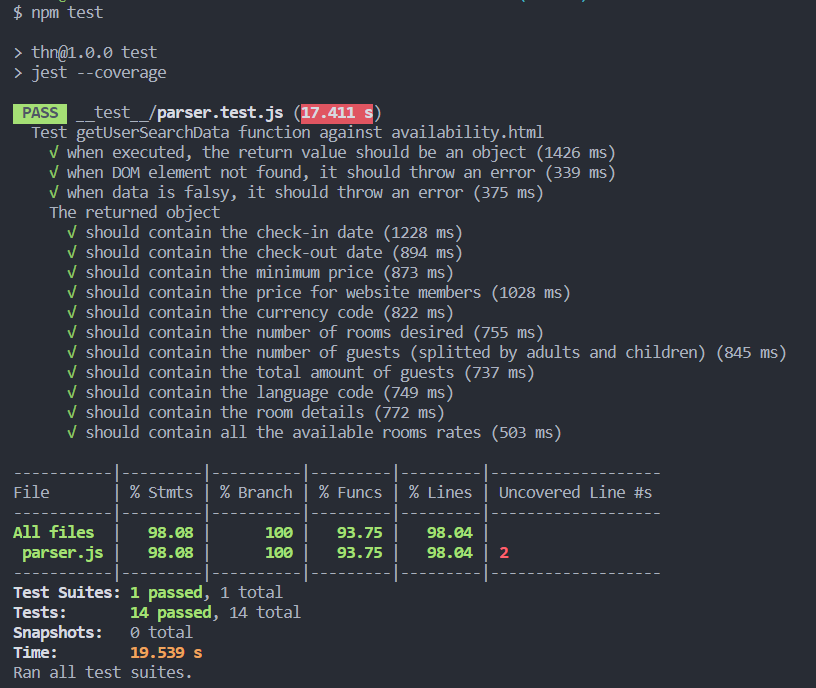
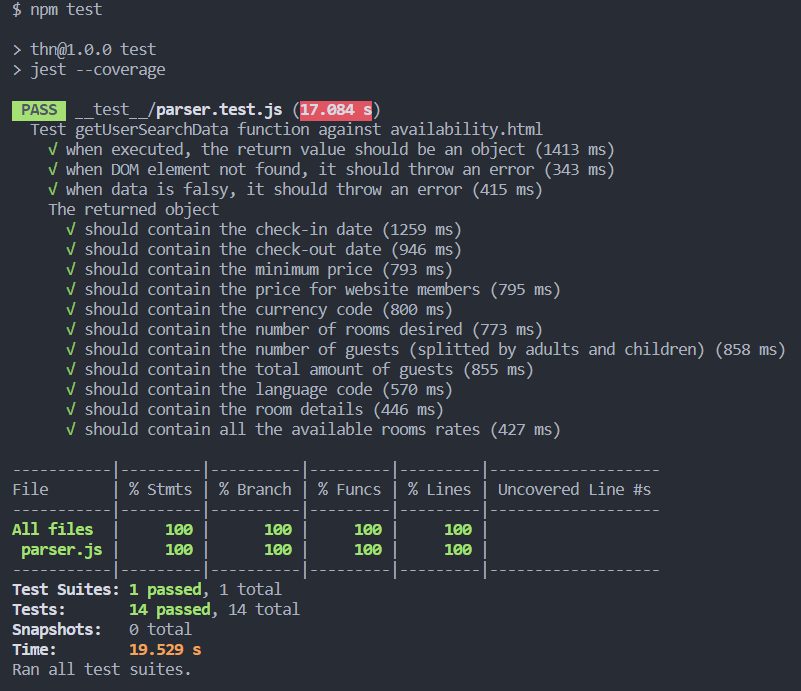
modified img

diff --git a/parser.js b/parser.js
@@ -1,7 +1,3 @@
-document.addEventListener('DOMContentLoaded', () => { 
-    getSearchData() 
-})
-
 function getSearchData() {
     try {
         return {
